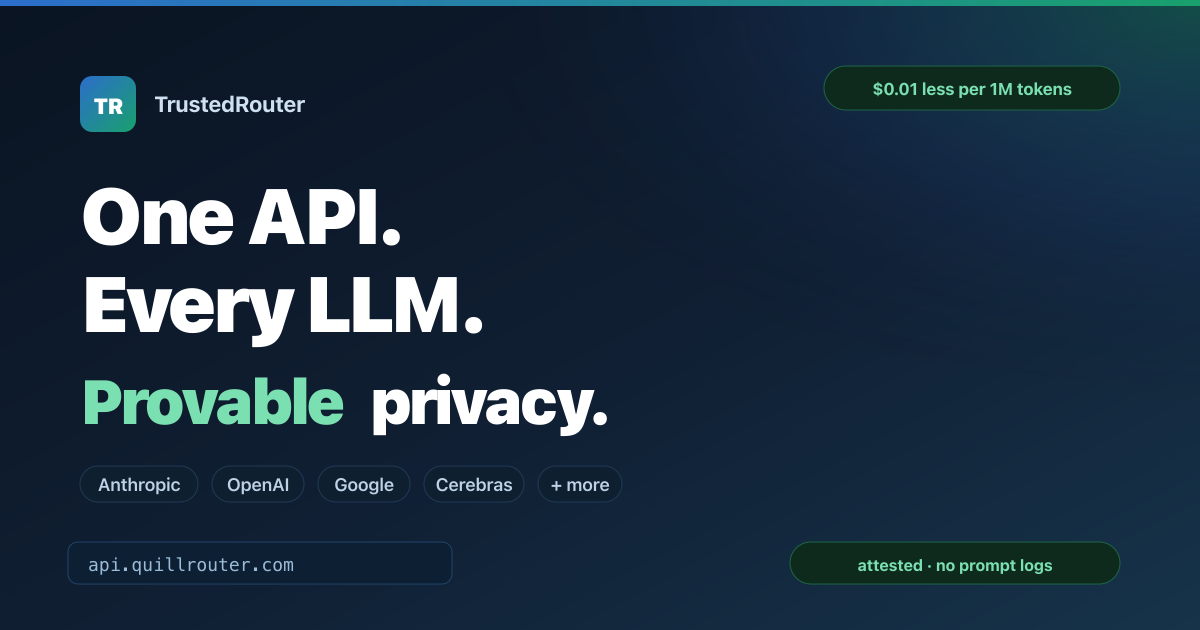
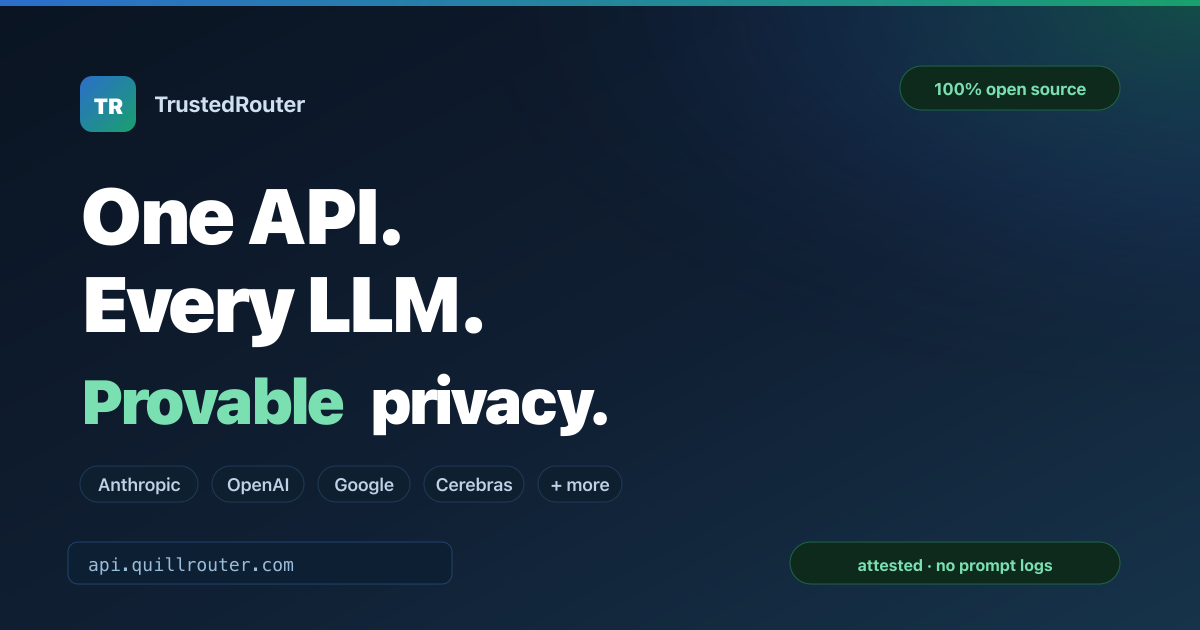
Homepage: real Feather Nano image + livelier hero scene + drop pricing claim
Three things in one push since they all hit the marketing surface:

1. The Quill ad on the homepage is now a Quill Feather Nano ad:
   - Real product photo (HDMI-stick form factor, palm-held, leaf etch)
   - Copy reframed for the actual form factor — "a private agent the
     size of an HDMI dongle" instead of the placeholder "small ARM box"
   - CTA button changed from "Open Quill →" to "Get a Feather Nano →"
   - First customer units shipping now (matches today's first sale)

2. Pricing claim retired everywhere on the marketing surface:
   - "Pricing" nav link removed from the homepage top nav
   - "Better prices · $0.01 less per 1M tokens" proof card removed
     from the hero proof grid (was 6 cards, now 5)
   - OG meta description no longer ends in "$0.01 less per million tokens"
   - OG social card image badge swapped from "$0.01 less per 1M tokens"
     to "100% open source" (regenerated og.png from the SVG)

3. Hero router scene was visually static; pumped it up significantly
   without changing what it represents:
   - Idle auto-rotate: when the pointer hasn't moved for >1.4s, the
     whole scene starts a slow sinusoidal sweep on Y/X axes; pointer
     interaction blends back in over 0.6s
   - Active route auto-cycles every 2.4s when idle, so the green
     active path keeps moving even with no cursor
   - Token count 58 → 132, baseline speed 3.5× faster, more spread
     between fast and slow tokens for swarm-vs-thread feel
[…]

Changed region(s): [[0.6783, 0.0905, 0.925, 0.181]]

diff --git a/src/trusted_router/static/hero-router-scene.js b/src/trusted_router/static/hero-router-scene.js
@@ -98,10 +98,53 @@ function initRouterScene(container, THREE) {
 
   const shieldRing = new THREE.Mesh(
     new THREE.TorusGeometry(1.22, 0.018, 12, 96),
-    new THREE.MeshBasicMaterial({ color: 0x2355a6, transparent: true, opacity: 0.45 })
+    new THREE.MeshBasicMaterial({ color: 0x2355a6, transparent: true, opacity: 0.55 })
   );
   shieldRing.rotation.x = Math.PI / 2.9;
   root.add(shieldRing);
+
+  // Outer counter-spinning energy ring — fatter, more glow, opposite axis.
+  const energyRing = new THREE.Mesh(
+    new THREE.TorusGeometry(1.62, 0.014, 10, 120),
+    new THREE.MeshBasicMaterial({ color: 0x7be0b1, transparent: true, opacity: 0.55 })
+  );
+  energyRing.rotation.x = -Math.PI / 2.4;
+  energyRing.rotation.y = Math.PI / 6;
+  root.add(energyRing);
+
+  // Third small inner ring for layered motion depth.
+  const innerRing = new THREE.Mesh(
+    new THREE.TorusGeometry(0.95, 0.008, 8, 64),
+    new THREE.MeshBasicMaterial({ color: 0x19a06d, transparent: true, opacity: 0.5 })
+  );
+  innerRing.rotation.x = Math.PI / 2.2;
+  innerRing.rotation.z = Math.PI / 5;
+  root.add(innerRing);
+
+  // Drifting background sparkle field — purely cosmetic motion ambient.
+  const sparkleCount = 90;
+  const sparkleGeometry = new THREE.BufferGeometry();
+  const sparklePositions = new Float32Array(sparkleCount * 3);
+  for (let i = 0; i < sparkleCount; i += 1) {
+    sparklePositions[i * 3 + 0] = (Math.random() - 0.5) * 7.5;
+    sparklePositions[i * 3 + 1] = (Math.random() - 0.5) * 4.6;
+    sparklePositions[i * 3 + 2] = (Math.random() - 0.5) * 3.0 - 0.4;
+  }
+  sparkleGeometry.setAttribute("position", new THREE.BufferAttribute(sparklePositions, 3));
+  const sparkleMaterial = new THREE.PointsMaterial({
+    color: 0x7be0b1,
+    size: 0.045,
+    transparent: true,
+    opacity: 0.5,
+    sizeAttenuation: true,
+  });
+  const sparkles = new THREE.Points(sparkleGeometry, sparkleMaterial);
+  root.add(sparkles);
+  const sparkleSeeds = Array.from({ length: sparkleCount }, () => ({
+    phase: Math.random() * Math.PI * 2,
+    speed: 0.4 + Math.random() * 0.6,
+    amp: 0.05 + Math.random() * 0.16,
+  }));
 
   const routeStart = new THREE.Vector3(0, 0, 0);
   const nodeGroup = new THREE.Group();
@@ -143,12 +186,14 @@ function initRouterScene(container, THREE) {
     return { provider, curve, line, node, ring };
   });
 
-  const tokenCount = 58;
-  const tokenGeometry = new THREE.TetrahedronGeometry(0.055, 0);
+  // Way more tokens, faster, more variance — gives the constant
+  // "data flowing" feel even when the camera isn't moving.
+  const tokenCount = 132;
+  const tokenGeometry = new THREE.TetrahedronGeometry(0.062, 0);
   const tokenMaterial = new THREE.MeshStandardMaterial({
     color: 0x7be0b1,
     emissive: 0x19a06d,
-    emissiveIntensity: 1.3,
+    emissiveIntensity: 1.55,
     metalness: 0.18,
     roughness: 0.28,
   });
@@ -158,7 +203,9 @@ function initRouterScene(container, THREE) {
   const tokenState = Array.from({ length: tokenCount }, (_, index) => ({
     route: index % routes.length,
     offset: (index * 0.137) % 1,
-    speed: 0.045 + (index % 7) * 0.006,
+    // 3.5× faster baseline, with more spread between fast and slow
+    // tokens so the stream looks heterogeneous rather than synchronized.
+    speed: 0.16 + ((index * 13) % 11) * 0.022,
   }));
   const dummy = new THREE.Object3D();
 
@@ -167,7 +214,13 @@ function initRouterScene(container, THREE) {
   let pointerY = 0;
   let targetRotX = -0.1;
   let targetRotY = 0.24;
+  let lastPointerEvent = -Infinity;
   const clock = new THREE.Clock();
+  // Auto-cycle the active route every ~2.4s so the scene keeps lighting
+  // up new paths even when nobody's interacting. setActiveRoute also
+  // lerps colors so the cycle reads as a wave.
+  const ROUTE_AUTO_CYCLE_SECONDS = 2.4;
+  let routeAutoCycleAt = 0;
 
   function setActiveRoute(routeIndex) {
     activeRoute = routeIndex % routes.length;
@@ -189,6 +242,7 @@ function initRouterScene(container, THREE) {
     targetRotX = -0.08 + pointerY * 0.16;
     const segment = Math.floor(((pointerX + 1) / 2) * routes.length);
     setActiveRoute(Math.max(0, Math.min(routes.length - 1, segment)));
+    lastPointerEvent = clock.getElapsedTime();
   }
 
   container.addEventListener("pointermove", onPointerMove, { passive: true });
@@ -211,28 +265,92 @@ function initRouterScene(container, THREE) {
   function animate() {
     const elapsed = clock.getElapsedTime();
     const speedScale = reducedMotion ? 0.28 : 1;
+
+    // Idle auto-rotate: when the pointer hasn't moved in a while, slow
+    // sinusoidal sweep so the scene never sits still. As soon as the
+    // pointer comes back the lerp blends out to the pointer-driven
+    // target rotation.
+    const idleSeconds = elapsed - lastPointerEvent;
+    if (idleSeconds > 1.4) {
+      const idleSweep = Math.min(1, (idleSeconds - 1.4) / 0.6);
+      targetRotY = Math.sin(elapsed * 0.32) * 0.55 * idleSweep + targetRotY * (1 - idleSweep);
+      targetRotX = -0.08 + Math.cos(elapsed * 0.22) * 0.18 * idleSweep + targetRotX * (1 - idleSweep);
+    }
     root.rotation.y += (targetRotY - root.rotation.y) * 0.045;
     root.rotation.x += (targetRotX - root.rotation.x) * 0.045;
-    root.rotation.z = Math.sin(elapsed * 0.22) * 0.035;
-    core.rotation.x = elapsed * 0.28 * speedScale;
-    core.rotation.y = elapsed * 0.36 * speedScale;
-    coreEdges.rotation.copy(core.rotation);
-    shieldRing.rotation.z = elapsed * 0.18 * speedScale;
-    grid.position.y = Math.sin(elapsed * 0.45) * 0.04;
+    root.rotation.z = Math.sin(elapsed * 0.34) * 0.07;
 
+    // Pulsing core: faster spin + scale pulse + emissive throb.
+    core.rotation.x = elapsed * 0.62 * speedScale;
+    core.rotation.y = elapsed * 0.78 * speedScale;
+    const corePulse = 1 + Math.sin(elapsed * 1.8 * speedScale) * 0.07;
+    core.scale.setScalar(corePulse);
+    coreEdges.rotation.copy(core.rotation);
+    coreEdges.scale.setScalar(corePulse * 1.04);
+    coreMaterial.emissiveIntensity = 0.65 + Math.sin(elapsed * 2.4 * speedScale) * 0.35;
+
+    // Three counter-rotating rings on different axes — depth of motion.
+    shieldRing.rotation.z = elapsed * 0.42 * speedScale;
+    shieldRing.rotation.y = elapsed * 0.18 * speedScale;
+    energyRing.rotation.z = -elapsed * 0.55 * speedScale;
+    energyRing.rotation.x = -Math.PI / 2.4 + Math.sin(elapsed * 0.6) * 0.18;
+    innerRing.rotation.z = elapsed * 0.92 * speedScale;
+    innerRing.rotation.y = -elapsed * 0.28 * speedScale;
+
+    grid.position.y = Math.sin(elapsed * 0.7) * 0.06;
+    grid.rotation.z = Math.sin(elapsed * 0.18) * 0.04;
+
+    // Auto-cycle active route every ROUTE_AUTO_CYCLE_SECONDS — keeps
+    // the green active path moving even when the cursor is off-canvas.
+    if (idleSeconds > 0.8 && elapsed - routeAutoCycleAt > ROUTE_AUTO_CYCLE_SECONDS) {
+      setActiveRoute(activeRoute + 1);
+      routeAutoCycleAt = elapsed;
+    }
+
+    // Per-route node bob + ring pulse (each at a unique frequency so
+    // the eye sees independent motion, not a synchronized wobble).
+    routes.forEach((route, index) => {
+      const phase = elapsed * (1.1 + index * 0.13) + index;
+      const radial = 1 + Math.sin(phase) * 0.06;
+      route.node.position.copy(route.curve.getPoint(1));
+      route.node.position.multiplyScalar(radial);
+      route.node.rotation.x = phase * 0.6;
+      route.node.rotation.y = phase * 0.4;
+      route.ring.position.copy(route.node.position);
+      route.ring.rotation.z = elapsed * (0.8 + index * 0.07);
+      const isActive = index === activeRoute;
+      const ringPulse = 1 + Math.sin(elapsed * 4 + index) * (isActive ? 0.18 : 0.05);
+      route.ring.scale.setScalar((isActive ? 1.34 : 1) * ringPulse);
+    });
+
+    // Tokens with banded coloring per route + active-route brightness
+    // boost. Active-route tokens are 75% larger and travel ~30% faster.
     for (let i = 0; i < tokenCount; i += 1) {
       const state = tokenState[i];
       const route = routes[state.route];
-      const t = (state.offset + elapsed * state.speed * speedScale) % 1;
-      const point = route.curve.getPoint(t);
       const active = state.route === activeRoute;
-      dummy.position.copy(point);
-      dummy.rotation.set(elapsed + i, elapsed * 0.7 + i * 0.2, elapsed * 0.42 + i);
-      dummy.scale.setScalar(active ? 1.55 : 0.82);
+      const stepSpeed = state.speed * speedScale * (active ? 1.3 : 1);
+      const t = (state.offset + elapsed * stepSpeed) % 1;
+      const point = route.curve.getPoint(t);
+      // Subtle radial scatter so the stream reads like a swarm, not a thread.
+      const scatter = Math.sin(elapsed * 1.7 + i * 0.6) * 0.04;
+      dummy.position.set(point.x, point.y + scatter, point.z);
+      dummy.rotation.set(elapsed * 1.1 + i, elapsed * 1.4 + i * 0.2, elapsed * 0.7 + i);
+      dummy.scale.setScalar(active ? 1.85 : 0.9);
       dummy.updateMatrix();
       tokens.setMatrixAt(i, dummy.matrix);
     }
     tokens.instanceMatrix.needsUpdate = true;
+
+    // Sparkle field: each point oscillates on its own seed so the
+    // background never freezes.
+    const positions = sparkles.geometry.attributes.position.array;
+    for (let i = 0; i < sparkleCount; i += 1) {
+      const seed = sparkleSeeds[i];
+      positions[i * 3 + 1] = positions[i * 3 + 1] + Math.sin(elapsed * seed.speed + seed.phase) * seed.amp * 0.012;
+    }
+    sparkles.geometry.attributes.position.needsUpdate = true;
+    sparkles.rotation.z = elapsed * 0.04;
 
     renderer.render(scene, camera);
     requestAnimationFrame(animate);

diff --git a/src/trusted_router/templates/dashboard.html b/src/trusted_router/templates/dashboard.html
@@ -31,7 +31,6 @@
     <nav class="nav">
       <a class="brand" href="/"><span class="mark">TR</span><span>TrustedRouter</span></a>
       <div class="links">
-        <a href="#pricing">Pricing</a>
         <a href="/compare/openrouter">OpenRouter</a>
         <a href="/docs/migrate-from-openrouter">Migrate</a>
         <a href="/security">Security</a>
@@ -59,7 +58,6 @@
         </div>
         <p class="signup-foot">Email/OAuth signups include trial credit. Wallet sign-in starts at $0. OpenAI SDK compatible. Open-source SDKs in Python and TS.</p>
         <div class="proof">
-          <div class="proof-card" id="pricing"><b>Better prices</b><span><span class="term">$0.01 less per 1M tokens</span> than the published provider price on prepaid routes.</span></div>
           <div class="proof-card" id="uptime"><b>99.9% availability</b><span><span class="mono">trustedrouter/auto</span> fails over across providers for uptime higher than individual LLM endpoints.</span></div>
           <div class="proof-card"><b>No subscriptions</b><span>Prepaid credits, BYOK, and usage-based billing. No monthly plan required.</span></div>
           <div class="proof-card"><b>Hosted OSS</b><span>Hosted service backed by open-source control plane and attested gateway code.</span></div>
@@ -105,18 +103,18 @@ resp = client.chat.completions.create(
         <a class="pill" href="https://github.com/Lore-Hex/trusted-router-js">trusted-router-js</a>
       </div>
     </section>
-    <aside class="quill-ad" aria-label="Sponsored: Quill">
+    <aside class="quill-ad" aria-label="Sponsored: Quill Feather Nano">
       <div class="quill-ad-inner">
-        <a class="quill-ad-mark" href="https://quill.lorehex.co" aria-label="Open Quill">
-          <img src="/static/quill.jpg" alt="Quill device" loading="lazy" decoding="async" width="180" height="180">
+        <a class="quill-ad-mark" href="https://quill.lorehex.co" aria-label="Open Quill Feather Nano">
+          <img src="/static/quill-feather.png" alt="Quill Feather Nano — palm-sized HDMI-stick device with a leaf etch" loading="lazy" decoding="async" width="320" height="291">
         </a>
         <div>
-          <span class="quill-ad-eyebrow">Sponsored · Powered by Quill</span>
-          <h2 class="quill-ad-title">Quill — Personal, private Agents you can verify.</h2>
-          <p class="quill-ad-lead">TrustedRouter is the hosted, attested API path Quill ships to its customers. Run Quill in the cloud or on-prem, prove non-logging end-to-end, ship to compliance with the same OpenAI-shaped client.</p>
+          <span class="quill-ad-eyebrow">Sponsored · Quill Feather Nano</span>
+          <h2 class="quill-ad-title">Quill Feather Nano — a private agent the size of an HDMI dongle.</h2>
+          <p class="quill-ad-lead">Pocket-sized always-on appliance. Plug it in, SSH in over Tailscale, and your agent runs locally — talking to TrustedRouter for verifiable non-logging inference. First customer units shipping now.</p>
         </div>
         <div class="quill-ad-cta">
-          <a class="btn" href="https://quill.lorehex.co">Open Quill →</a>
+          <a class="btn" href="https://quill.lorehex.co">Get a Feather Nano →</a>
           <a class="pill" href="https://github.com/Lore-Hex/quill">github.com/Lore-Hex/quill</a>
         </div>
       </div>

diff --git a/src/trusted_router/og.py b/src/trusted_router/og.py
@@ -8,7 +8,7 @@ OG_TITLE = "TrustedRouter — One API. Every LLM. Provable privacy."
 OG_DESCRIPTION = (
     "Hosted, OpenRouter-compatible router for Anthropic, OpenAI, Google, and "
     "more — prepaid or BYOK. Every prompt path terminates inside a measured "
-    "Confidential Space workload. $0.01 less per million tokens."
+    "Confidential Space workload. 100% open source."
 )
 OG_IMAGE_WIDTH = 1200
 OG_IMAGE_HEIGHT = 630
@@ -52,10 +52,10 @@ def og_image_svg(_settings: Settings) -> str:
     <text x="74" y="36" font-size="22" font-weight="700" fill="#cfe1f1" letter-spacing="0.2">TrustedRouter</text>
   </g>
 
-  <!-- Pricing badge, top-right -->
+  <!-- Open-source badge, top-right -->
   <g transform="translate({OG_IMAGE_WIDTH - 80} 92)" font-family="{_SANS}" text-anchor="end">
-    <rect x="-296" y="-26" width="296" height="44" rx="22" fill="#0e2a1d" stroke="#1f6447"/>
-    <text x="-148" y="3" font-size="17" font-weight="700" fill="#7be0b1" text-anchor="middle">$0.01 less per 1M tokens</text>
+    <rect x="-220" y="-26" width="220" height="44" rx="22" fill="#0e2a1d" stroke="#1f6447"/>
+    <text x="-110" y="3" font-size="17" font-weight="700" fill="#7be0b1" text-anchor="middle">100% open source</text>
   </g>
 
   <!-- Headline -->
